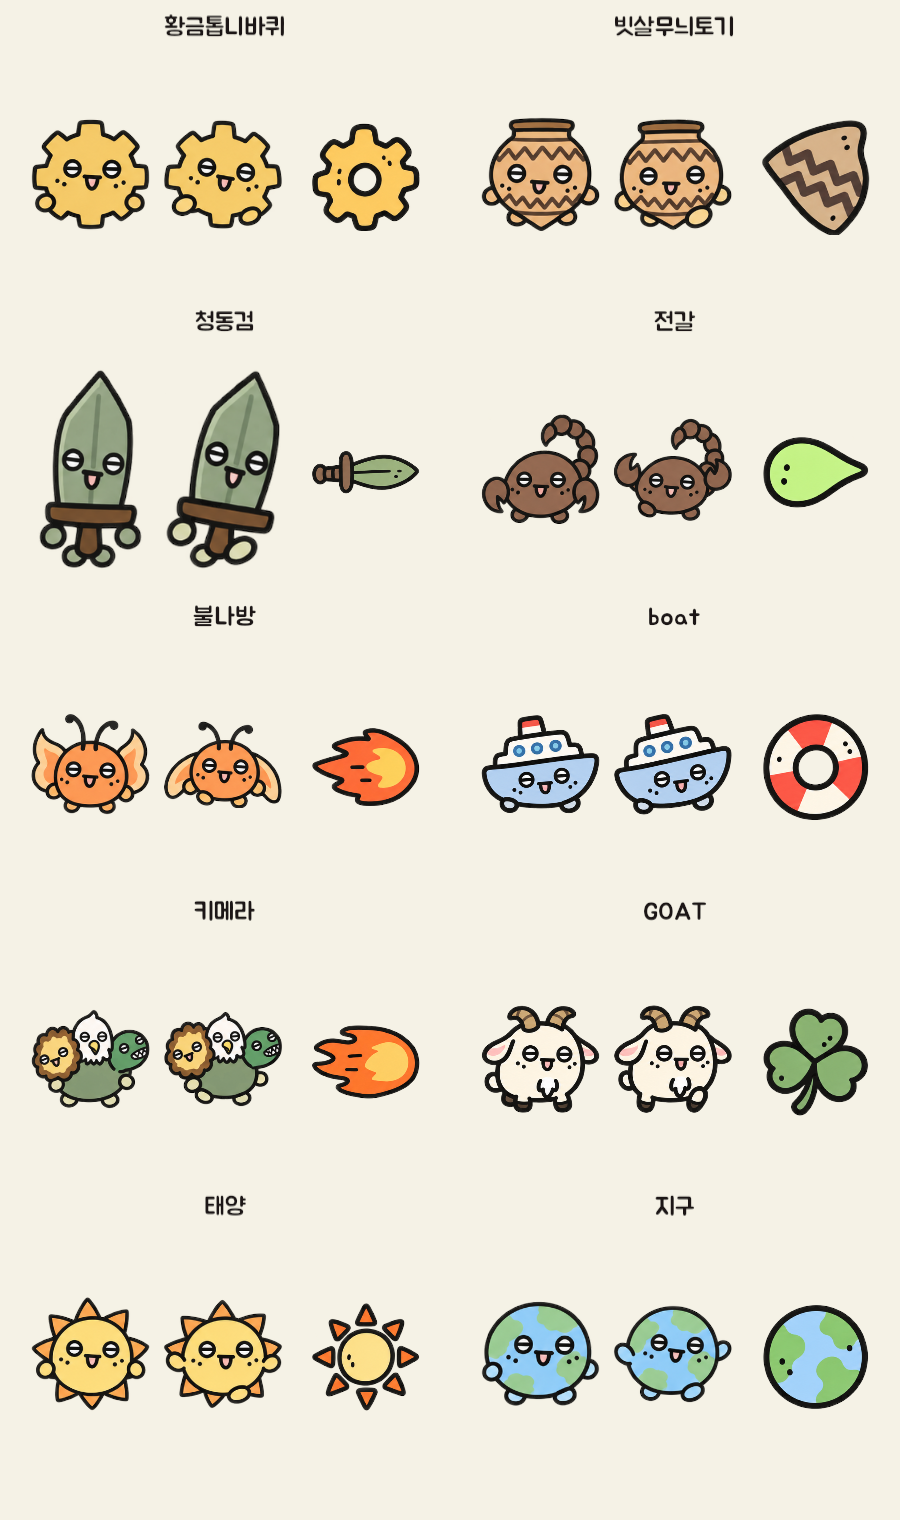
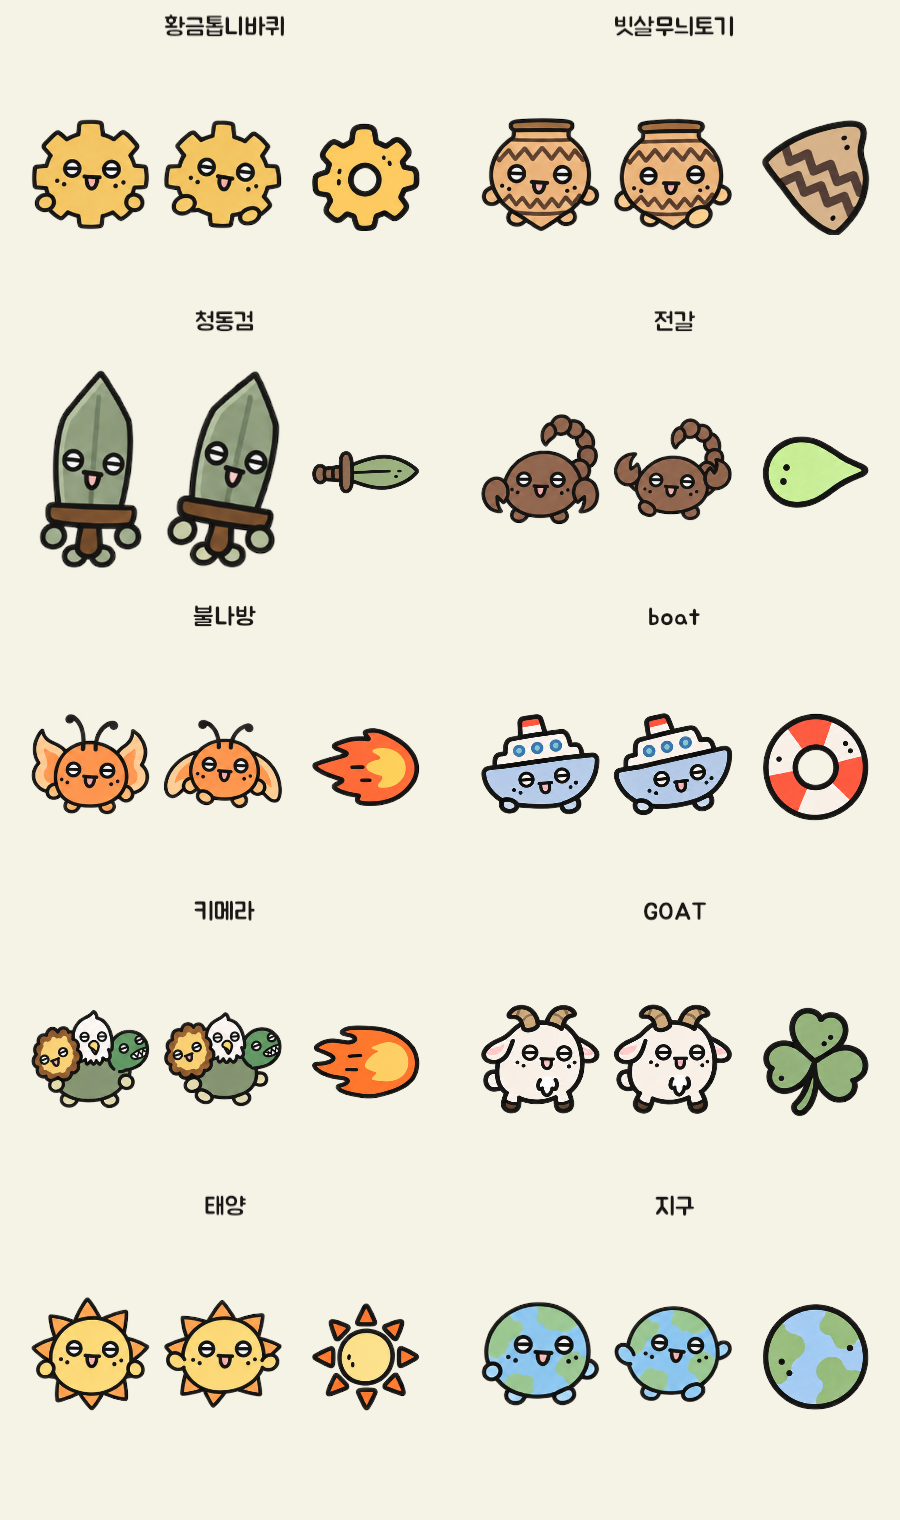
Record verified two-leg goat and consistent animation preview

diff --git a/Documentation/UI/ASCENSION.md b/Documentation/UI/ASCENSION.md
@@ -51,6 +51,8 @@
 
 내장 `image_gen` 편집으로 `AscensionCompanions.png`와 `AscensionRevisions.png`를 수정했다. [최종 편집 프롬프트](ascension-anatomy-edit-prompts.json)에 두 파일의 저장 경로와 편집 지시를 기록했다.
 
+[팔다리 수정 CI](https://github.com/kuzuni/20260920/actions/runs/35929551306): 이미지 커밋 `8eb20d0`, 관련 렌더·공격 검사 **3/3 통과**. 실제 Unity 렌더에서 두 컷을 나란히 비교해 위 표의 팔다리 개수가 유지되는 것을 확인했다. `ascension-art` 옵션으로 이 검사를 재실행할 수 있다.
+
 ## 장비·등급·확률
 
 - 갑옷과 몽둥이에 각각 근원 가시, 근원 수정, 초월 날개, 초월 별빛, 갓 태양 5개씩 추가한다.
@@ -67,5 +69,5 @@
 - 생성 프롬프트 및 최종 PNG 경로: [스킬·장비](ascension-art-prompts.json), [동료·투척물](ascension-companion-art-prompts.json).
 - 검증은 GitHub Actions의 Unity PlayMode에서 수행한다. `ascension` 수동 실행 옵션은 신규 전투, 저장 이관, 카탈로그, 장비 합성, 확률, 피해량과 아트 검사를 포함한다.
 - 실제 uGUI/URP 렌더 결과는 CI 아티팩트의 `ascension-*.png`, 검사 결과는 `playmode-results.xml`에 저장한다.
-- 최종 검증: [Unity CI 35907418220](https://github.com/kuzuni/20260920/actions/runs/35907418220), 코드 커밋 `6bc0b4b`, 관련 PlayMode 검사 **25/25 통과** (2026-09-24 KST). 신규 동료·투척물, 스킬 수량과 발사 간격, 해제 시 예약 공격 취소, 저장 이관, 확률, 장비 합성, UI와 기존 이동·돌진·충돌을 확인했다.
+- 확장 구현 검증: [Unity CI 35907418220](https://github.com/kuzuni/20260920/actions/runs/35907418220), 코드 커밋 `6bc0b4b`, 관련 PlayMode 검사 **25/25 통과** (2026-09-24 KST). 신규 동료·투척물, 스킬 수량과 발사 간격, 해제 시 예약 공격 취소, 저장 이관, 확률, 장비 합성, UI와 기존 이동·돌진·충돌을 확인했다.
 - 40개 스킬을 교체하며 200초간 진행하는 자동 전투 검사도 통과했다. 맵 가장자리의 적 밀집 상태에서 이동·동시 넉백이 적을 계속 밀어 겹치지 않도록 여유 공간에 맞춰 속도를 제한한다. 기존 충돌 검사의 허용 기준은 유지하고, 적 위치·반지름은 프레임당 한 번씩 읽어 재사용한다.
